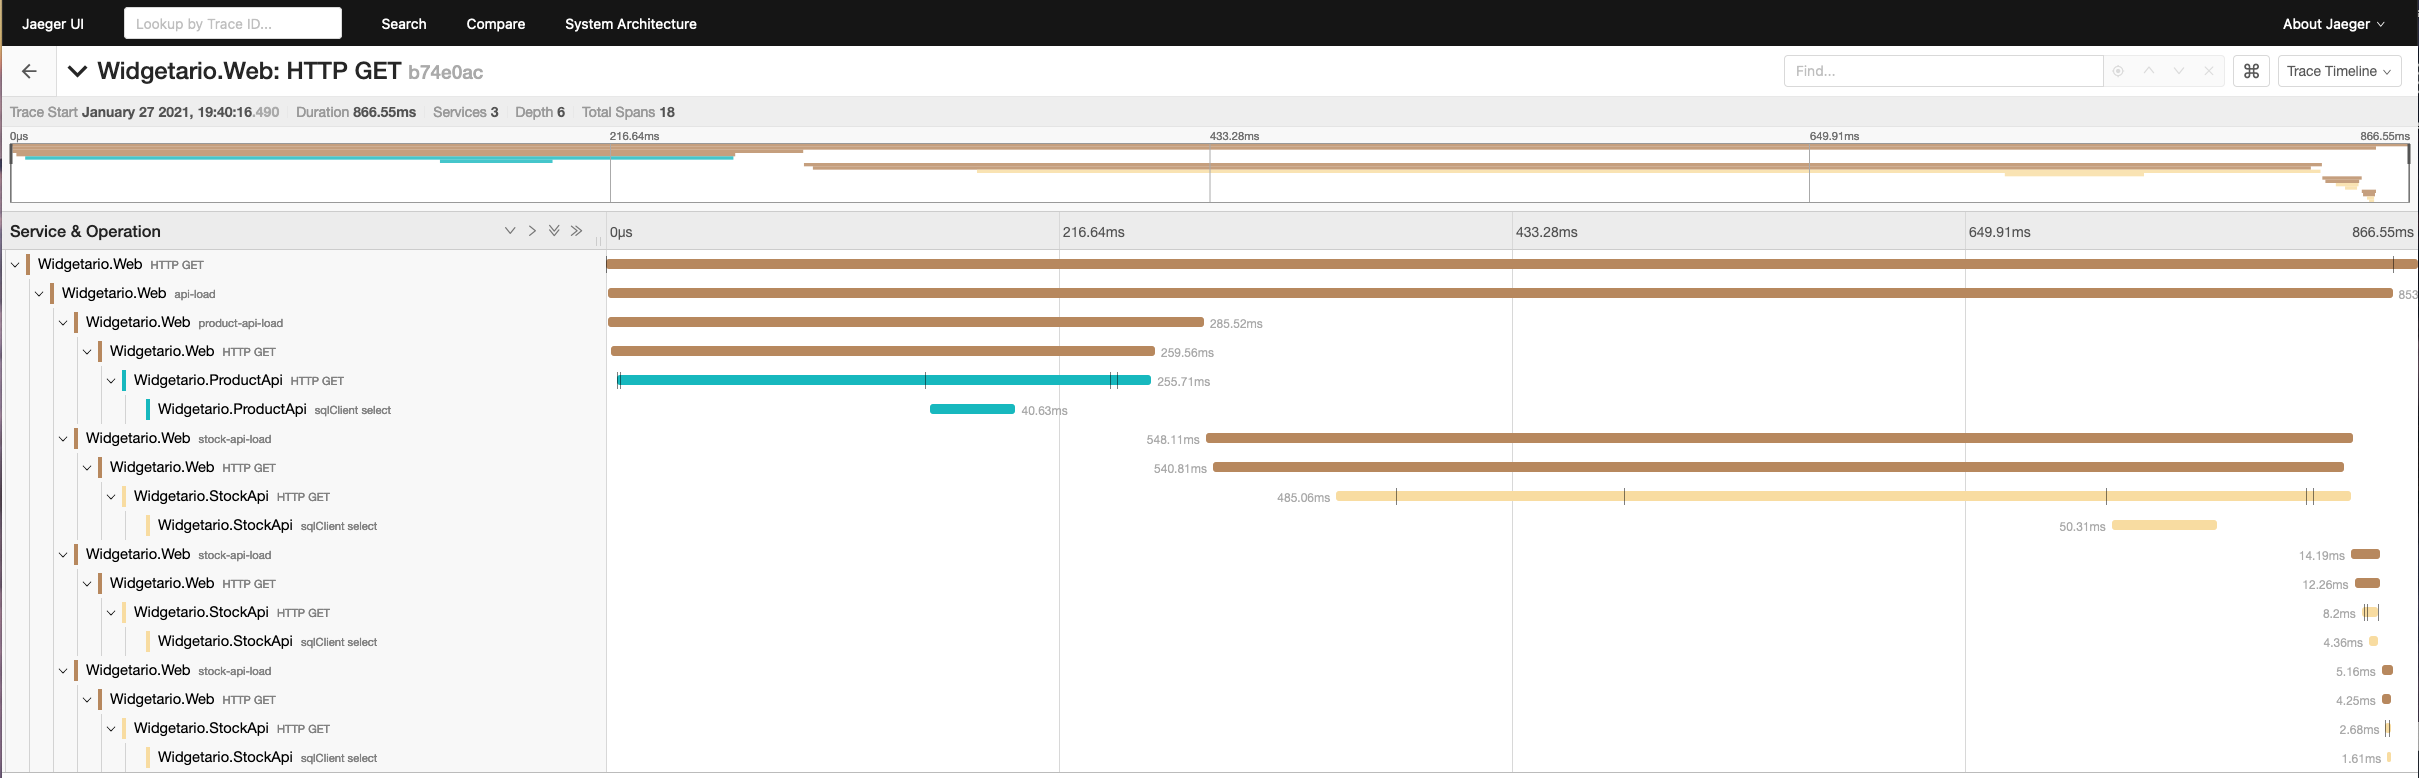
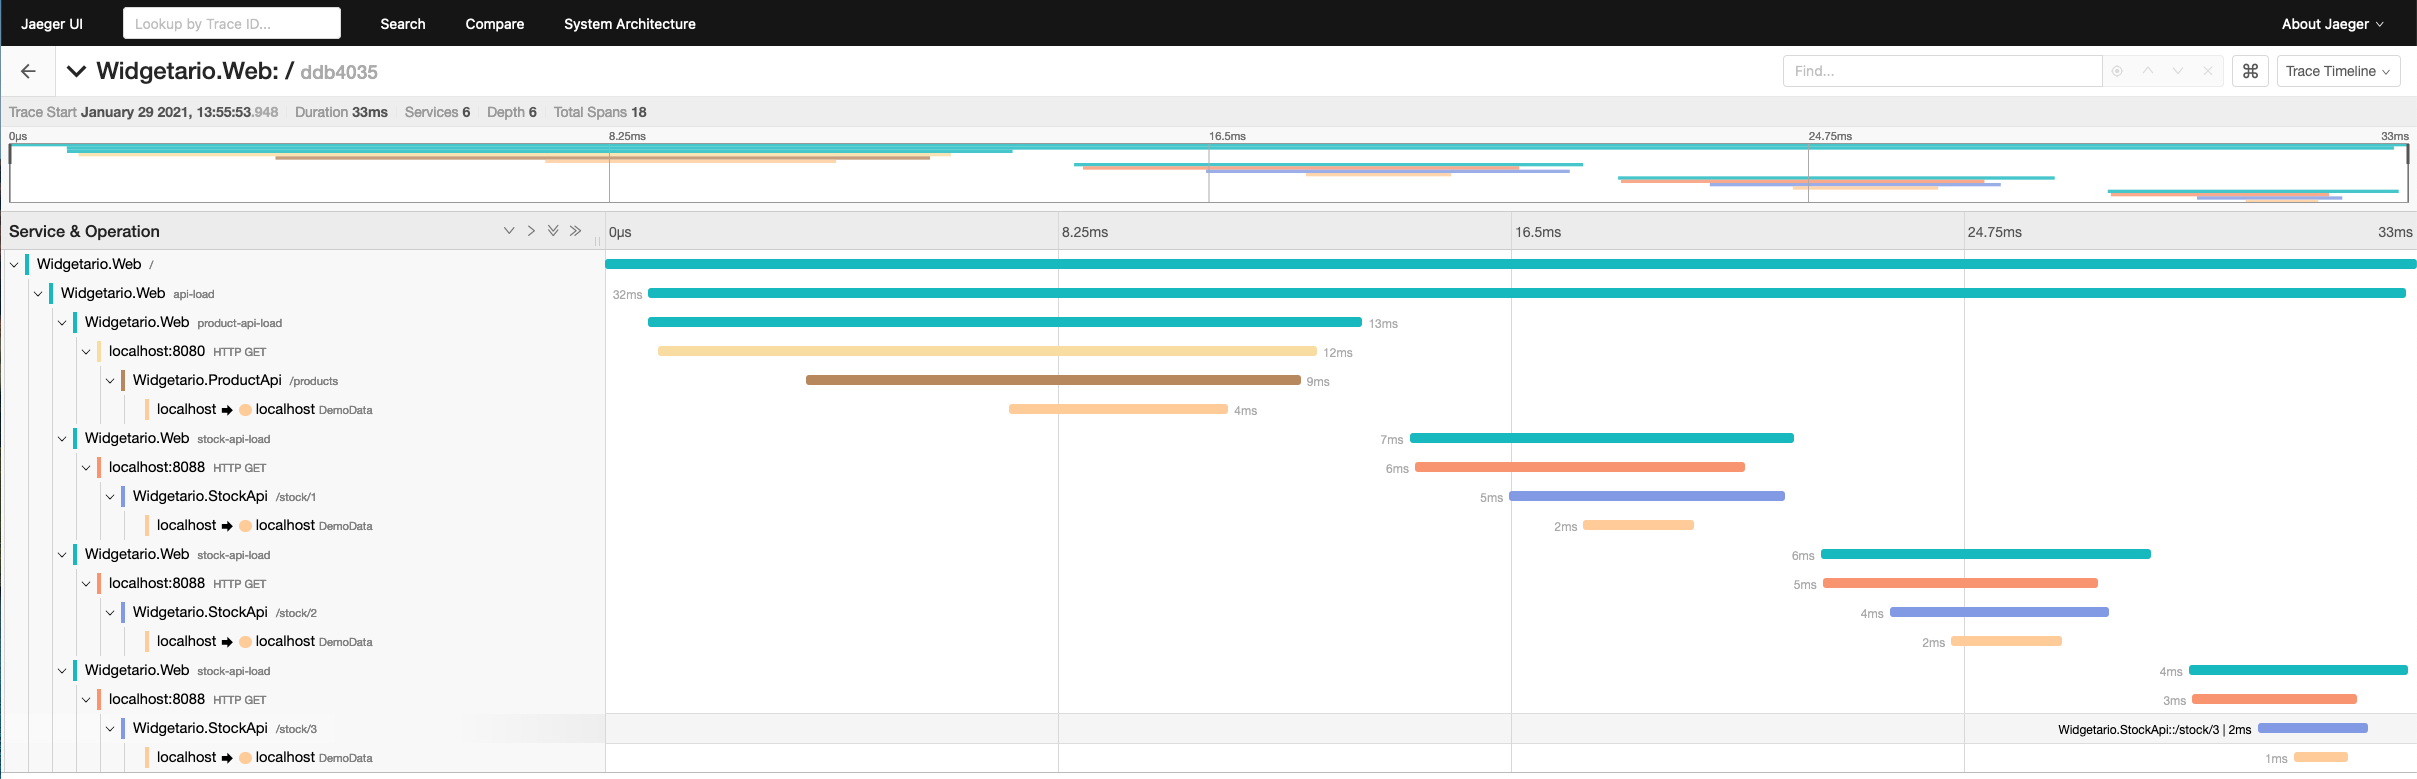
Move to OpenTelemetry

diff --git a/src/stock-api/dotnet/Widgetario.StockApi/Startup.cs b/src/stock-api/dotnet/Widgetario.StockApi/Startup.cs
@@ -2,18 +2,14 @@ namespace Widgetario.StockApi
 {
     using Carter;
     using EasyCaching.Core;
-    using Jaeger;
-    using Jaeger.Reporters;
-    using Jaeger.Samplers;
-    using Jaeger.Senders.Thrift;
     using Microsoft.AspNetCore.Builder;
     using Microsoft.AspNetCore.Hosting;
     using Microsoft.Extensions.Configuration;
     using Microsoft.Extensions.DependencyInjection;
     using Microsoft.Extensions.Hosting;
-    using Microsoft.Extensions.Logging;
-    using OpenTracing;
-    using OpenTracing.Util;
+    using OpenTelemetry;
+    using OpenTelemetry.Resources;
+    using OpenTelemetry.Trace;
     using Widgetario.StockApi.Caching;
     using Widgetario.StockApi.Model;
 
@@ -34,30 +30,12 @@ namespace Widgetario.StockApi
 
             if (Configuration.GetValue<bool>("Tracing:Enabled"))
             {
-                services.AddSingleton<ITracer>(serviceProvider =>
-                {
-                    var loggerFactory = serviceProvider.GetRequiredService<ILoggerFactory>();
-                    var sampler = new ConstSampler(sample: true);
-
-                    var reporter = new RemoteReporter.Builder()
-                        .WithLoggerFactory(loggerFactory)
-                        .WithSender(new UdpSender(Configuration["Tracing:Target"], 6831, 0))
-                        .Build();
-
-                    var tracer = new Tracer.Builder("Widgetario.StockApi")
-                        .WithLoggerFactory(loggerFactory)
-                        .WithSampler(sampler)
-                        .WithReporter(reporter)
-                        .Build();
-
-                    GlobalTracer.Register(tracer);
-                    return tracer;
-                });
-                services.AddOpenTracing();
-            }
-            else
-            {
-                services.AddSingleton(GlobalTracer.Instance);
+                services.AddOpenTelemetryTracing(builder =>
+                    builder
+                        .SetResourceBuilder(ResourceBuilder.CreateDefault().AddService("Widgetario.StockApi"))
+                        .AddAspNetCoreInstrumentation()
+                        .AddSqlClientInstrumentation(sqloptions => sqloptions.SetTextCommandContent = true)
+                        .AddJaegerExporter());
             }
 
             if (Configuration.GetValue<bool>("Caching:Enabled"))

diff --git a/src/web/dotnet/Widgetario.Web/Startup.cs b/src/web/dotnet/Widgetario.Web/Startup.cs
@@ -1,18 +1,14 @@
 namespace Widgetario.Web
 {
     using Carter;
-    using Jaeger;
-    using Jaeger.Reporters;
-    using Jaeger.Samplers;
-    using Jaeger.Senders.Thrift;
     using Microsoft.AspNetCore.Builder;
     using Microsoft.AspNetCore.Hosting;
     using Microsoft.Extensions.Configuration;
     using Microsoft.Extensions.DependencyInjection;
     using Microsoft.Extensions.Hosting;
-    using Microsoft.Extensions.Logging;
-    using OpenTracing;
-    using OpenTracing.Util;
+    using OpenTelemetry;
+    using OpenTelemetry.Resources;
+    using OpenTelemetry.Trace;
     using Widgetario.Web.Services;
 
     public class Startup
@@ -32,30 +28,14 @@ namespace Widgetario.Web
 
             if (Configuration.GetValue<bool>("Tracing:Enabled"))
             {
-                services.AddSingleton<ITracer>(serviceProvider =>
-                {
-                    var loggerFactory = serviceProvider.GetRequiredService<ILoggerFactory>();
-                    var sampler = new ConstSampler(sample: true);
-
-                    var reporter = new RemoteReporter.Builder()
-                        .WithLoggerFactory(loggerFactory)
-                        .WithSender(new UdpSender(Configuration["Tracing:Target"], 6831, 0))
-                        .Build();
-
-                    var tracer = new Tracer.Builder("Widgetario.Web")
-                        .WithLoggerFactory(loggerFactory)
-                        .WithSampler(sampler)
-                        .WithReporter(reporter)
-                        .Build();
-
-                    GlobalTracer.Register(tracer);
-                    return tracer;
-                });
-                services.AddOpenTracing();
-            }
-            else
-            {
-                services.AddSingleton(GlobalTracer.Instance);
+                services.AddOpenTelemetryTracing(builder =>
+                    builder
+                        .SetResourceBuilder(ResourceBuilder.CreateDefault().AddService("Widgetario.Web"))
+                        .AddSource("api-load-source")
+                        .AddAspNetCoreInstrumentation()
+                        .AddSqlClientInstrumentation(sqloptions => sqloptions.SetTextCommandContent = true)
+                        .AddHttpClientInstrumentation()
+                        .AddJaegerExporter());
             }
         }
 

diff --git a/src/products-api/dotnet/Widgetario.ProductApi/Startup.cs b/src/products-api/dotnet/Widgetario.ProductApi/Startup.cs
@@ -1,18 +1,14 @@
 namespace Widgetario.ProductApi
 {
     using Carter;
-    using Jaeger;
-    using Jaeger.Reporters;
-    using Jaeger.Samplers;
-    using Jaeger.Senders.Thrift;
     using Microsoft.AspNetCore.Builder;
     using Microsoft.AspNetCore.Hosting;
     using Microsoft.Extensions.Configuration;
     using Microsoft.Extensions.DependencyInjection;
     using Microsoft.Extensions.Hosting;
-    using Microsoft.Extensions.Logging;
-    using OpenTracing;
-    using OpenTracing.Util;
+    using OpenTelemetry;
+    using OpenTelemetry.Resources;
+    using OpenTelemetry.Trace;
     using Widgetario.ProductApi.Model;
 
     public class Startup
@@ -32,30 +28,12 @@ namespace Widgetario.ProductApi
 
             if (Configuration.GetValue<bool>("Tracing:Enabled"))
             {
-                services.AddSingleton<ITracer>(serviceProvider =>
-                {
-                    var loggerFactory = serviceProvider.GetRequiredService<ILoggerFactory>();
-                    var sampler = new ConstSampler(sample: true);
-
-                    var reporter = new RemoteReporter.Builder()
-                        .WithLoggerFactory(loggerFactory)
-                        .WithSender(new UdpSender(Configuration["Tracing:Target"], 6831, 0))
-                        .Build();
-
-                    var tracer = new Tracer.Builder("Widgetario.ProductApi")
-                        .WithLoggerFactory(loggerFactory)
-                        .WithSampler(sampler)
-                        .WithReporter(reporter)
-                        .Build();
-
-                    GlobalTracer.Register(tracer);
-                    return tracer;
-                });
-                services.AddOpenTracing();
-            }
-            else
-            {
-                services.AddSingleton(GlobalTracer.Instance);
+                services.AddOpenTelemetryTracing(builder =>
+                    builder
+                        .SetResourceBuilder(ResourceBuilder.CreateDefault().AddService("Widgetario.ProductApi"))
+                        .AddAspNetCoreInstrumentation()
+                        .AddSqlClientInstrumentation(sqloptions => { sqloptions.SetTextCommandContent = true; })
+                        .AddJaegerExporter());
             }
         }
 

diff --git a/src/web/dotnet/Widgetario.Web/Modules/HomeModule.cs b/src/web/dotnet/Widgetario.Web/Modules/HomeModule.cs
@@ -4,13 +4,12 @@ namespace Widgetario.Web.Modules
     using Carter;
     using Carter.Response;
     using Microsoft.Extensions.Logging;
-    using OpenTracing;
     using Widgetario.Web.Models;
     using Widgetario.Web.Services;
 
     public class HomeModule : CarterModule
     {
-        public HomeModule(ProductService productsService, StockService stockService, ITracer tracer,
+        public HomeModule(ProductService productsService, StockService stockService,
             ILogger<HomeModule> logger)
         {
             this.Get("/", async (req, res) =>
@@ -18,16 +17,18 @@ namespace Widgetario.Web.Modules
                 var stopwatch = Stopwatch.StartNew();
                 logger.LogDebug("Loading products & stock");
                 var model = new ProductViewModel();
-                using (var loadScope = tracer.BuildSpan("api-load").StartActive())
+                var activitySource = new ActivitySource("api-load-source");
+
+                using (activitySource.StartActivity("api-load"))
                 {
-                    using (var productLoadScope = tracer.BuildSpan("product-api-load").StartActive())
+                    using (activitySource.StartActivity("product-api-load"))
                     {
                         model.Products = await productsService.GetProducts();
                     }
 
                     foreach (var product in model.Products)
                     {
-                        using (var stockLoadScope = tracer.BuildSpan("stock-api-load").StartActive())
+                        using (activitySource.StartActivity("stock-api-load"))
                         {
                             var productStock = await stockService.GetStock(product.Id);
                             product.Stock = productStock.Stock;

diff --git a/README.md b/README.md
@@ -4,10 +4,9 @@
 
 When running an ASP.NET Core application that makes any IO calls it's handy to trace what is happening.  In this codebase, tracing is enabled and the ASP.NET Core web app makes IO calls to two different
 APIs to retrieve data.  In the past we have had to wire up correlation ids and causation ids manually with HttpClient but thanks to the work done inside the .NET Core platform we no longer have to worry 
-about this.  What's more we have tools that can use these enhancements and visualize these calls and allow us to see how long and where these calls take place inside our application.  It can also show any 
-logging you may have in the app (via `ILogger`) and also distinguish HTTP calls going out and HTTP calls coming in across boundaries.  If you use SqlClient you also get OpenTelemetry for free that shows the timings
-of your SQL queries and the SQL statement that was executed.  For this example, there are two options configured in the Product and Stock appsettings.json, SqlClient and Npgsql, unfortunately work to get 
-OpenTelemetry into Npgsql is ongoing and therefore won't show sql timings.
+about this.  What's more, we have tools that can use these enhancements and visualize these calls and allow us to see how long and where these calls take place inside our application.  It can distinguish 
+HTTP calls going out and HTTP calls coming in across boundaries.  If you use SqlClient you also get OpenTelemetry for free that shows the timings of your SQL queries and the SQL statement that was executed.  
+For this example, there are two options configured in the Product and Stock appsettings.json, SqlClient and Npgsql, unfortunately work to get OpenTelemetry into Npgsql is ongoing and therefore won't show sql timings.
 
 **Overview**
 ![](./overview.png)
